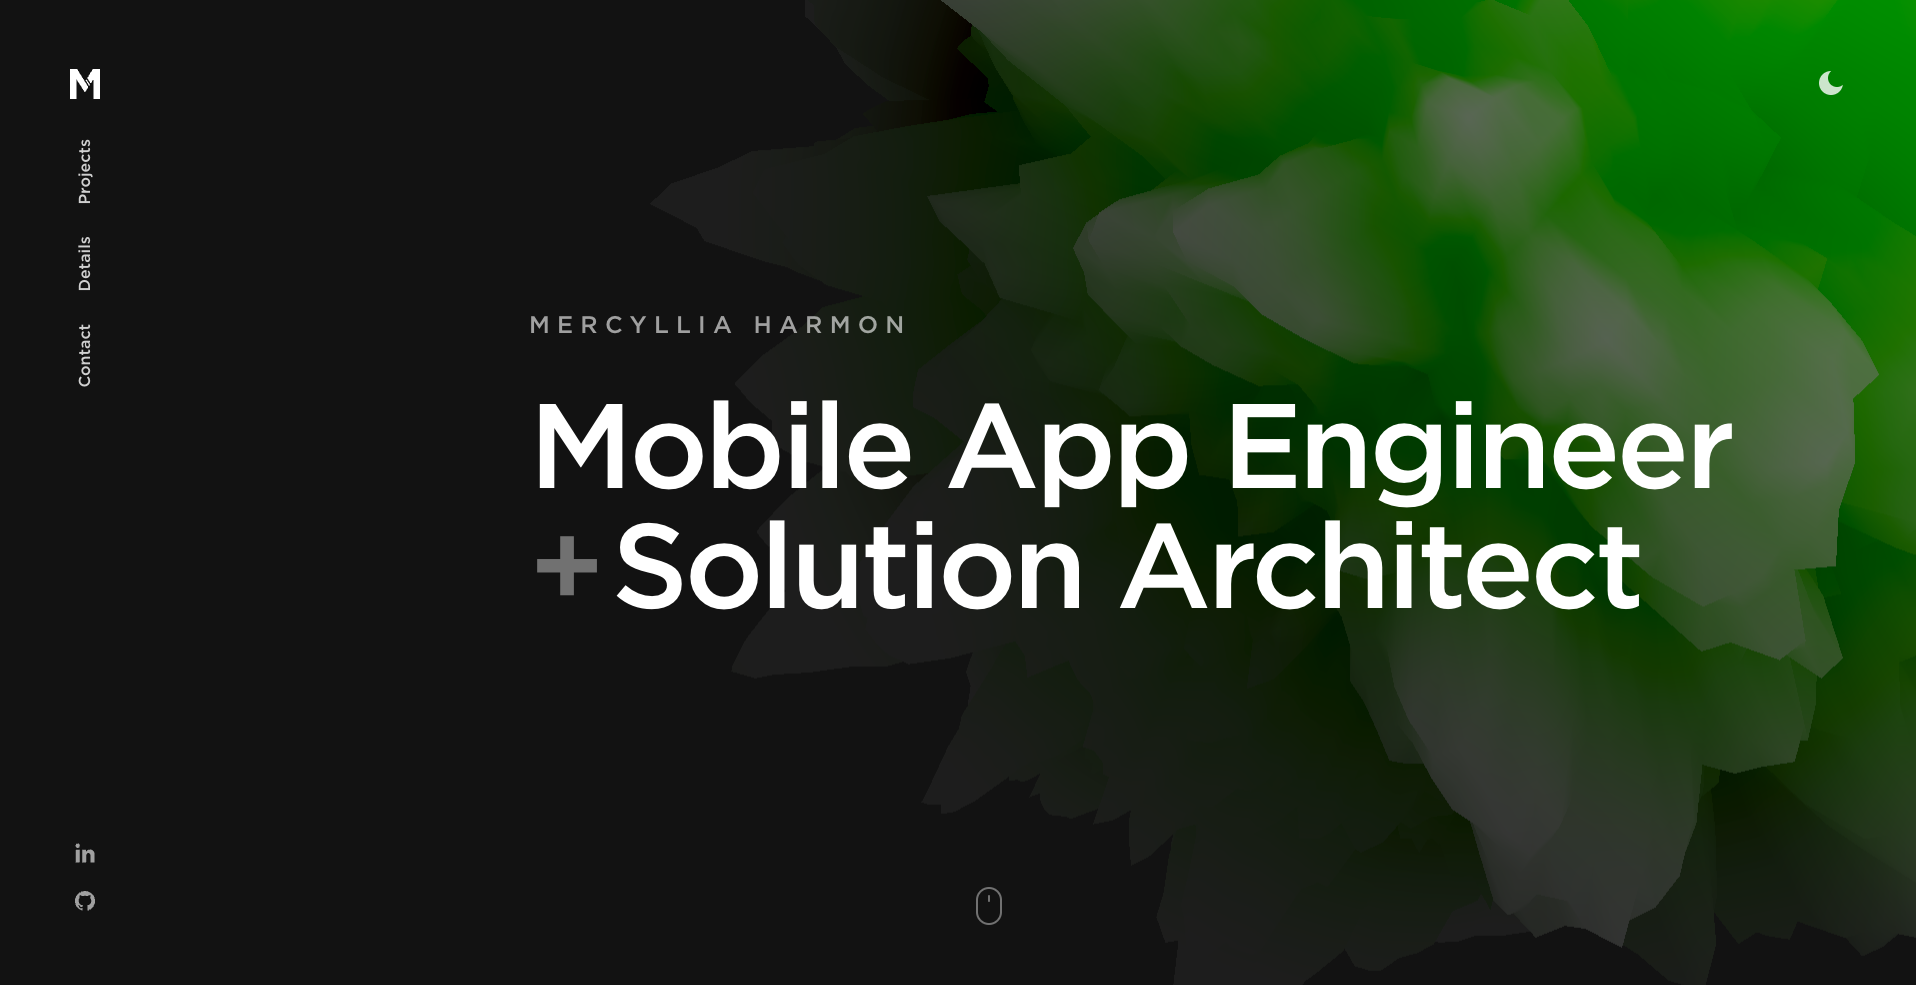
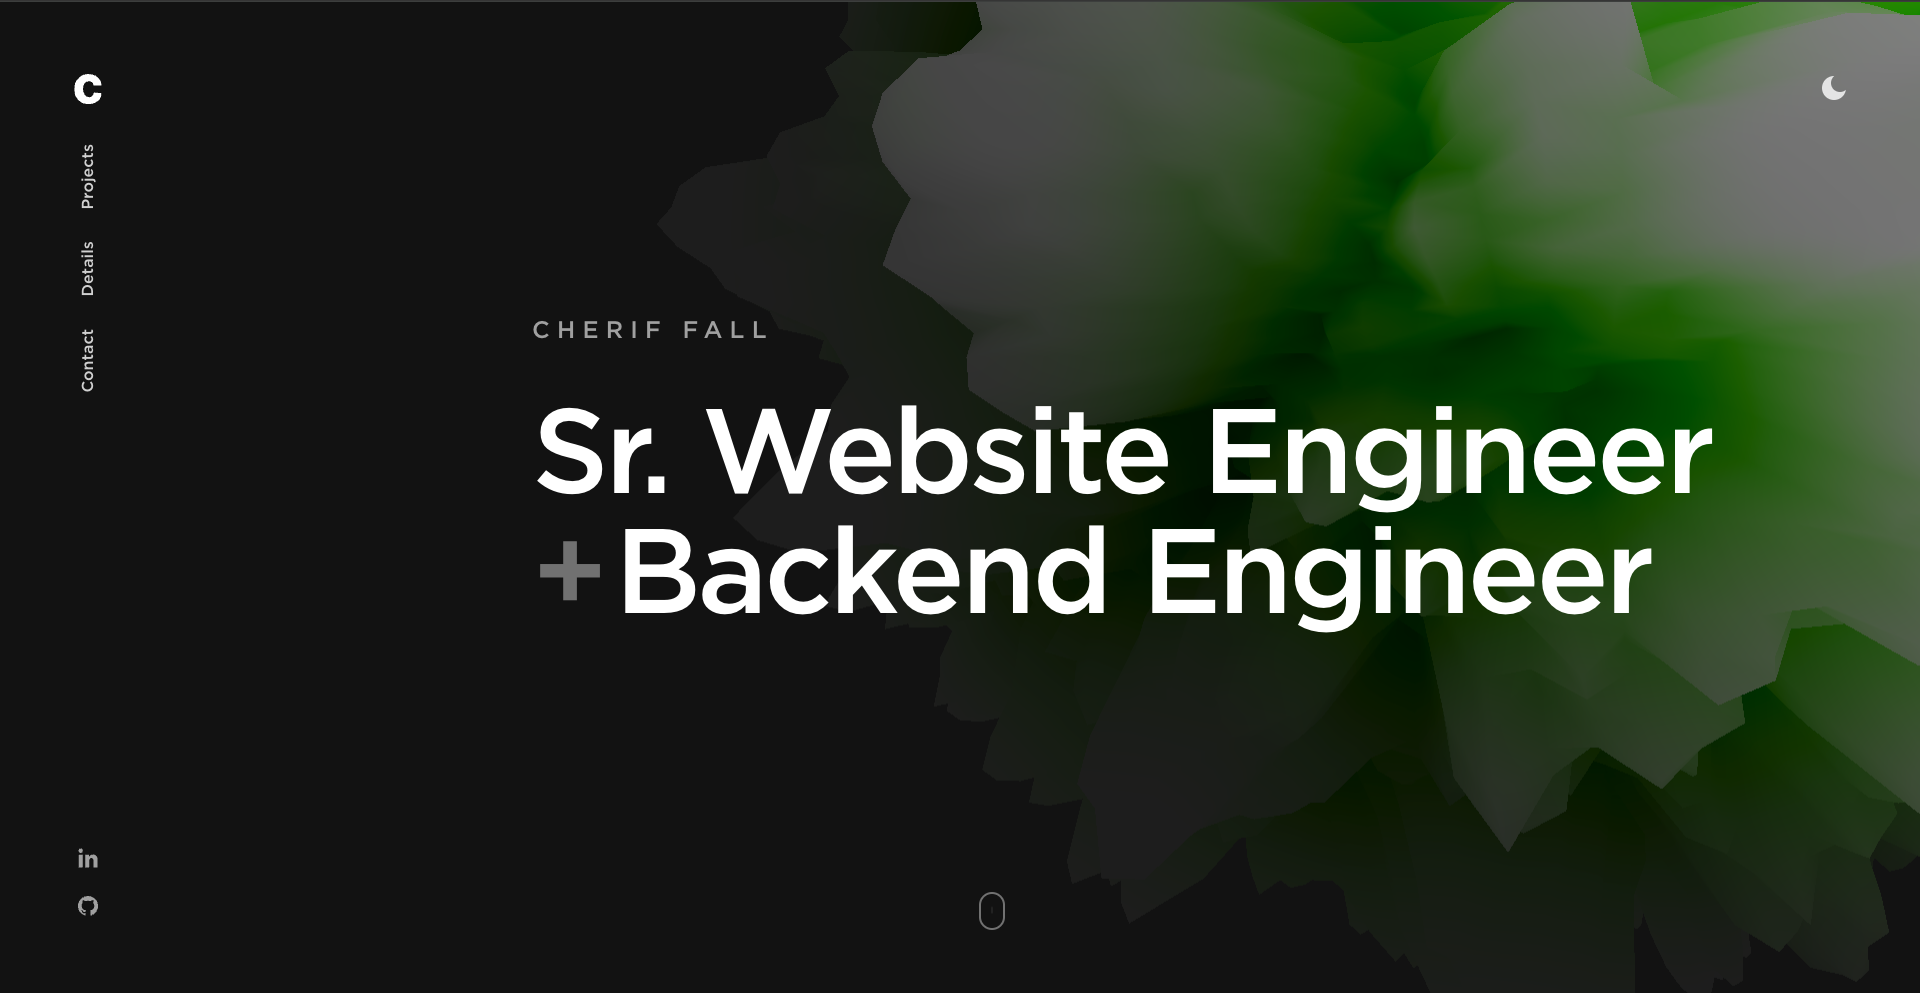
Make changes related to cherif

diff --git a/app/routes/home/profile.jsx b/app/routes/home/profile.jsx
@@ -21,19 +21,19 @@ const ProfileText = ({ visible, titleId }) => (
       <DecoderText text="Hi there" start={visible} delay={500} />
     </Heading>
       <Text>
-          I'm Mercy, a dedicated <strong>Solution Architect and Mobile App Engineer</strong> with expertise in <strong>React Native</strong> and <strong>Flutter</strong>. Over the past three years, I've delivered 10+ successful apps that have generated over $500K in revenue.
+          I'm Cherif, a skilled <strong>Web Developer and Designer</strong> with expertise in <strong>HTML, React, Laravel, Wordpress, WebFlow, and Shopify</strong>. With a passion for creating visually appealing and functional websites, I've successfully delivered a variety of projects across multiple platforms.
       </Text>
       <Text style={{marginTop: 20, marginBottom: 20}}>
-          I focus on creating user-centric, scalable applications that blend innovation with performance, ensuring each solution meets real business needs.
+          I specialize in building responsive, user-friendly websites that drive engagement and meet business objectives through modern web technologies.
       </Text>
       <Text as="h2">Highlights:</Text>
       <ul>
-          <li><Text><strong>Cross-Platform Mastery</strong>: Expert in delivering seamless experiences on both iOS and Android.</Text></li>
-          <li><Text><strong>Revenue Impact</strong>: Proven track record of generating significant revenue through effective app solutions.</Text></li>
-          <li><Text><strong>Client Focused</strong>: I prioritize understanding client needs to craft solutions that drive success.</Text></li>
+          <li><Text><strong>Full-Stack Expertise</strong>: Proficient in both front-end and back-end development for a complete web experience.</Text></li>
+          <li><Text><strong>E-Commerce Solutions</strong>: Extensive experience in building and optimizing Shopify stores and other e-commerce platforms.</Text></li>
+          <li><Text><strong>Design-Focused</strong>: A keen eye for design, ensuring websites not only function well but also look great.</Text></li>
       </ul>
       <Text style={{marginTop: 20, marginBottom: 20}}>
-          I'm passionate about pushing the boundaries of mobile development and am excited for the next challenge!
+          I'm passionate about helping businesses thrive online and am always ready to take on new challenges in web development.
       </Text>
     {/*<Text className={styles.description} data-visible={visible} size="l" as="p">*/}
     {/*    I'm Mercy, a passionate Solution Architect and Mobile App Engineer with over three years of experience specializing in React Native and Flutter. I’ve successfully completed more than 10 mobile applications, generating over $500K in revenue.*/}

diff --git a/.storybook/manager-head.html b/.storybook/manager-head.html
@@ -4,14 +4,14 @@
   }
 </style>
 
-<title>Mercy Harmon | Storybook</title>
+<title>Cherif Fall | Storybook</title>
 <meta
   name="description"
   content="My custom design component system created from the ground up used in building my portfolio"
 />
 
 <meta name="theme-color" content="#111111" />
-<meta name="author" content="Mercy Harmon" />
+<meta name="author" content="Cherif Fall" />
 
 <link rel="shortcut icon" href="/favicon.svg" />
 <link rel="apple-touch-icon" href="/icon-256.png" />
@@ -23,9 +23,9 @@
 <meta property="og:image:height" content="675" />
 <meta property="og:image:alt" content="Banner for the site" />
 
-<meta property="og:title" content="Mercy Harmon | Storybook" />
-<meta property="og:site_name" content="mercyharmon.dev" />
-<meta property="og:url" content="https://storybook.mercyharmon.dev" />
+<meta property="og:title" content="Cherif Fall | Storybook" />
+<meta property="og:site_name" content="cherrifall.dev" />
+<meta property="og:url" content="https://storybook.cherrifall.dev" />
 <meta
   property="og:description"
   content="My custom design component system created from the ground up used in building my portfolio"

diff --git a/app/components/monogram/monogram.jsx b/app/components/monogram/monogram.jsx
@@ -12,14 +12,15 @@ export const Monogram = forwardRef(({ highlight, className, ...props }, ref) => 
       className={classes(styles.monogram, className)}
       width="30"
       height="30"
-      viewBox="0 0 50 50"
+      viewBox="0 0 512 512"
       ref={ref}
       {...props}
     >
       <defs>
         <clipPath id={clipId}>
           <path
-              d="M16.29 7.14 11.86 0H0v50h10.79V17.57l13.92 21.14H25l5.61-8.51zM38.14 0l-9.38 15.09 5.73 9.22 4.58-6.95V50H50V0zM27.5 17.12l-1.24 2 5.65 9.11 1.28-1.94z"/>
+              d="M353.957 196.193s-7.547-70.366-77.364-72.32c-69.817-1.954-105.674 52.774-105.674 130.958s39.627 140.733 107.558 140.733c67.932 0 75.48-78.183 75.48-78.183l130.201 7.817s7.666 70.613-46.818 124.486c-54.486 53.869-121.362 62.671-168.066 62.305-46.703-.373-111.457.732-174.076-63.404-62.619-64.135-73.246-126.44-73.246-187.643 0-61.206 11.875-142.285 86.33-203.77C158.884 15.394 210.18 0 261.484 0c214.178 0 228.563 197.539 228.563 197.539l-136.09-1.346z"
+              />
         </clipPath>
       </defs>
       <rect clipPath={`url(#${clipId})`} width="100%" height="100%" />

diff --git a/app/layouts/navbar/nav-data.js b/app/layouts/navbar/nav-data.js
@@ -22,12 +22,12 @@ export const navLinks = [
 export const socialLinks = [
   {
     label: 'LinkedIn',
-    url: `https://www.linkedin.com/in/mercyharmon/`,
+    url: `https://www.linkedin.com/in/cherif-fall-pmp%C2%AE-psmi-psmii-897aaa146/`,
     icon: 'linkedin',
   },
   {
     label: 'Github',
-    url: ` https://github.com/FullStackDevCoach`,
+    url: `https://github.com/cherif-fall`,
     icon: 'github',
   },
 ];

diff --git a/app/components/link/link.stories.jsx b/app/components/link/link.stories.jsx
@@ -7,8 +7,8 @@ export default {
 
 export const Default = () => (
   <StoryContainer style={{ fontSize: 18 }}>
-    <Link href="https://mercyharmon.dev">Primary link</Link>
-    <Link secondary href="https://mercyharmon.dev">
+    <Link href="https://cherrifall.dev">Primary link</Link>
+    <Link secondary href="https://cherrifall.dev">
       Secondary link
     </Link>
   </StoryContainer>

diff --git a/.storybook/manager.js b/.storybook/manager.js
@@ -5,7 +5,7 @@ addons.setConfig({
   theme: {
     ...themes.dark,
     brandImage: './icon.svg',
-    brandTitle: 'Mercy Harmon',
-    brandUrl: 'https://mercyharmon.dev',
+    brandTitle: 'Cherif Fall',
+    brandUrl: 'https://cherrifall.dev',
   },
 });
